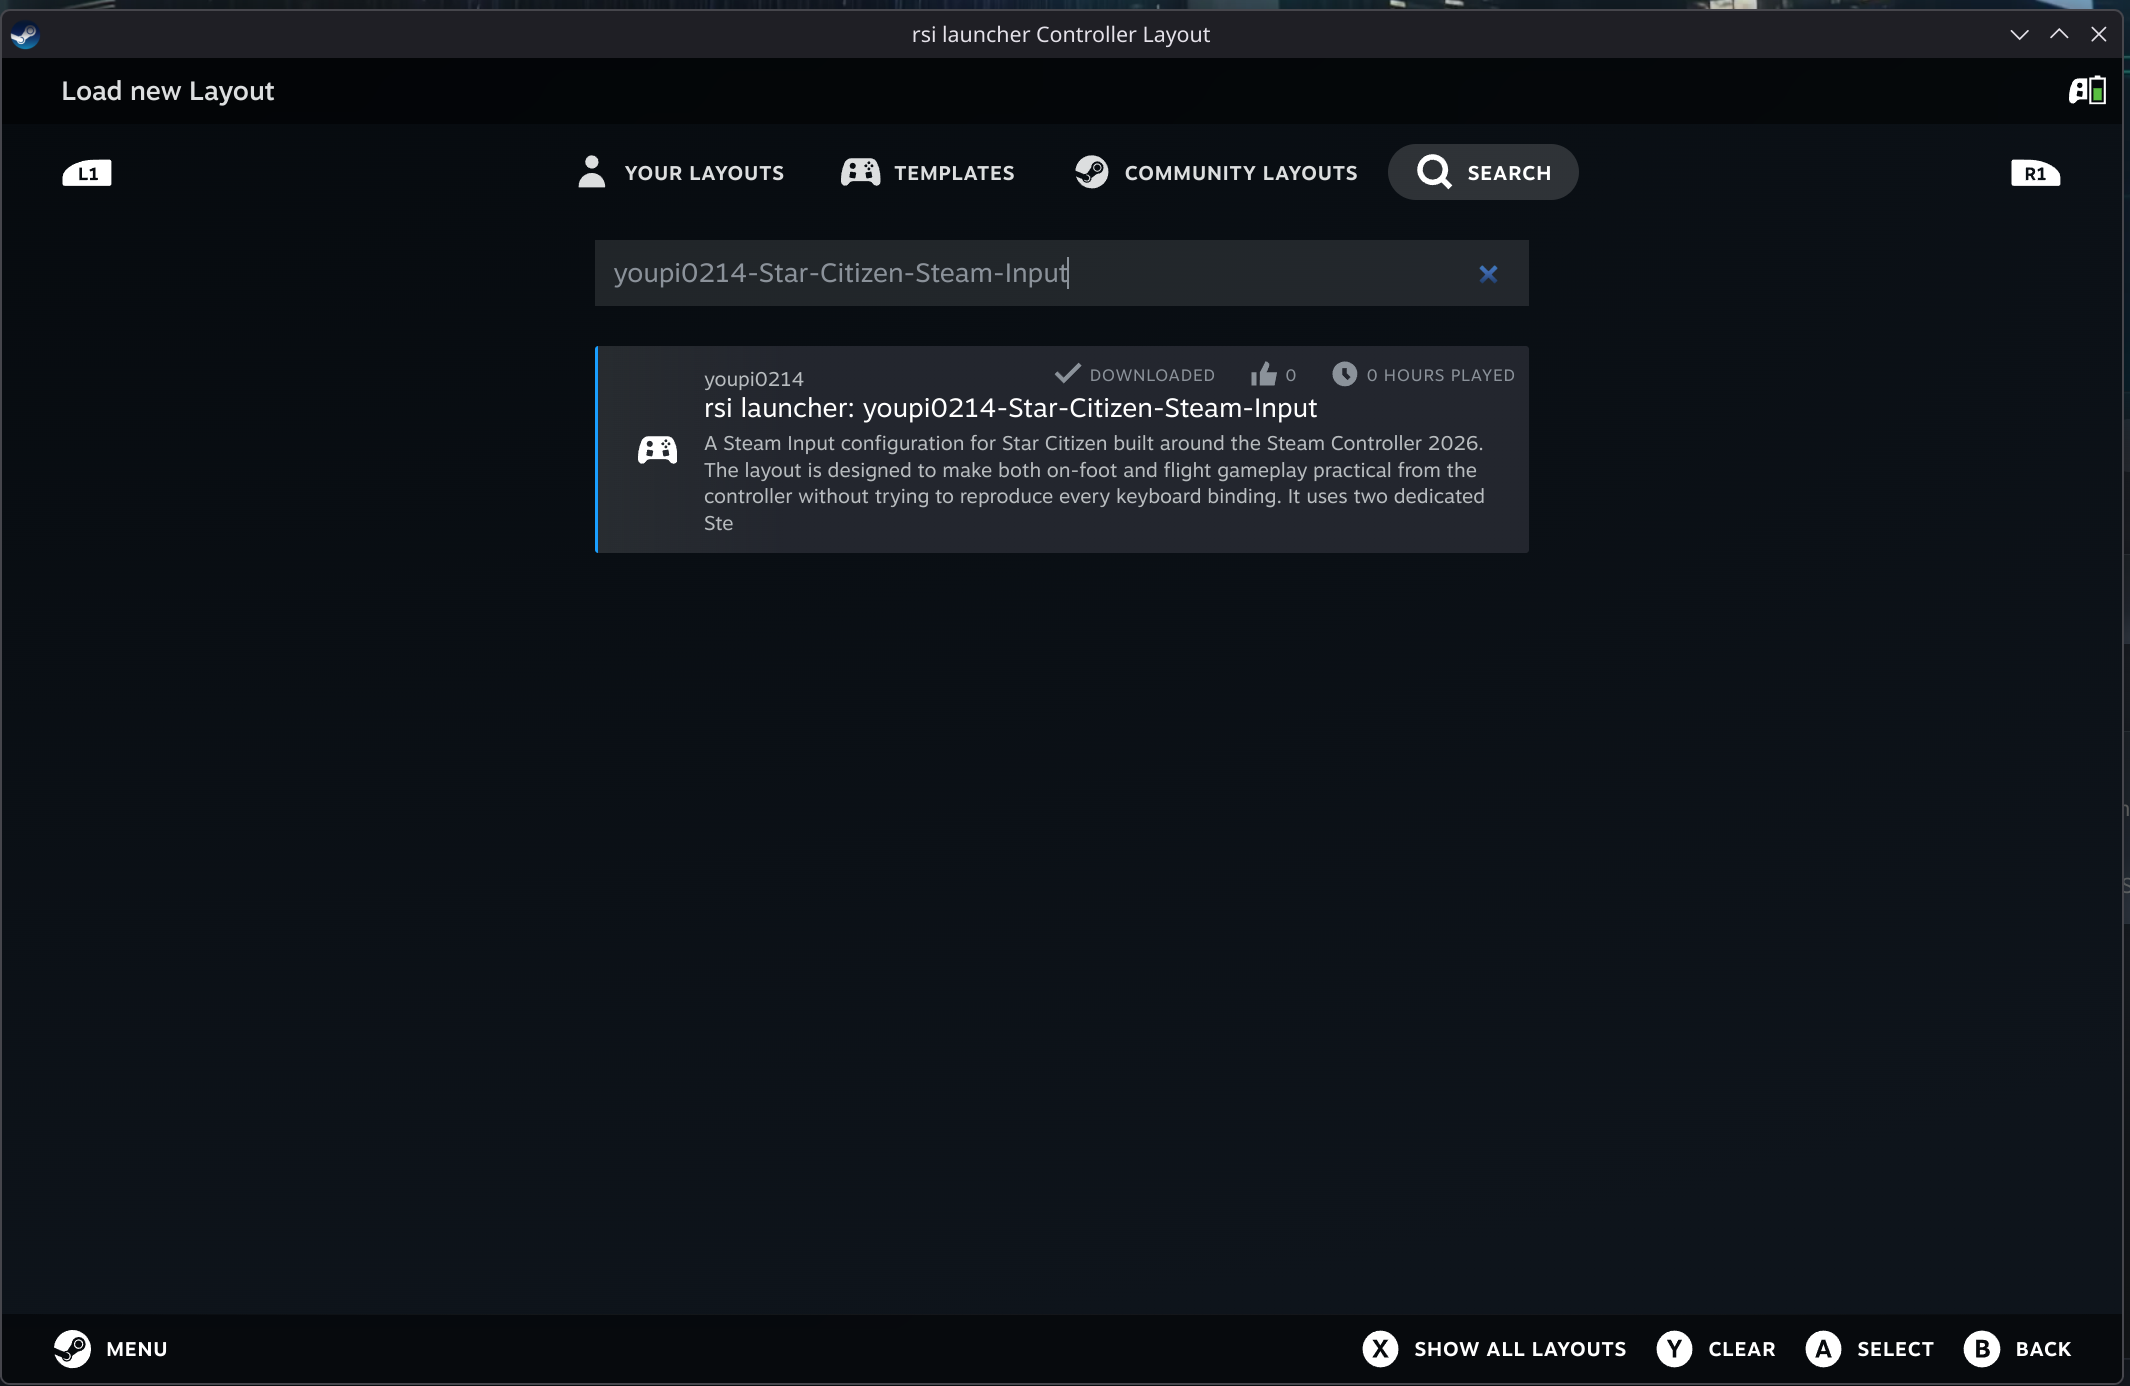
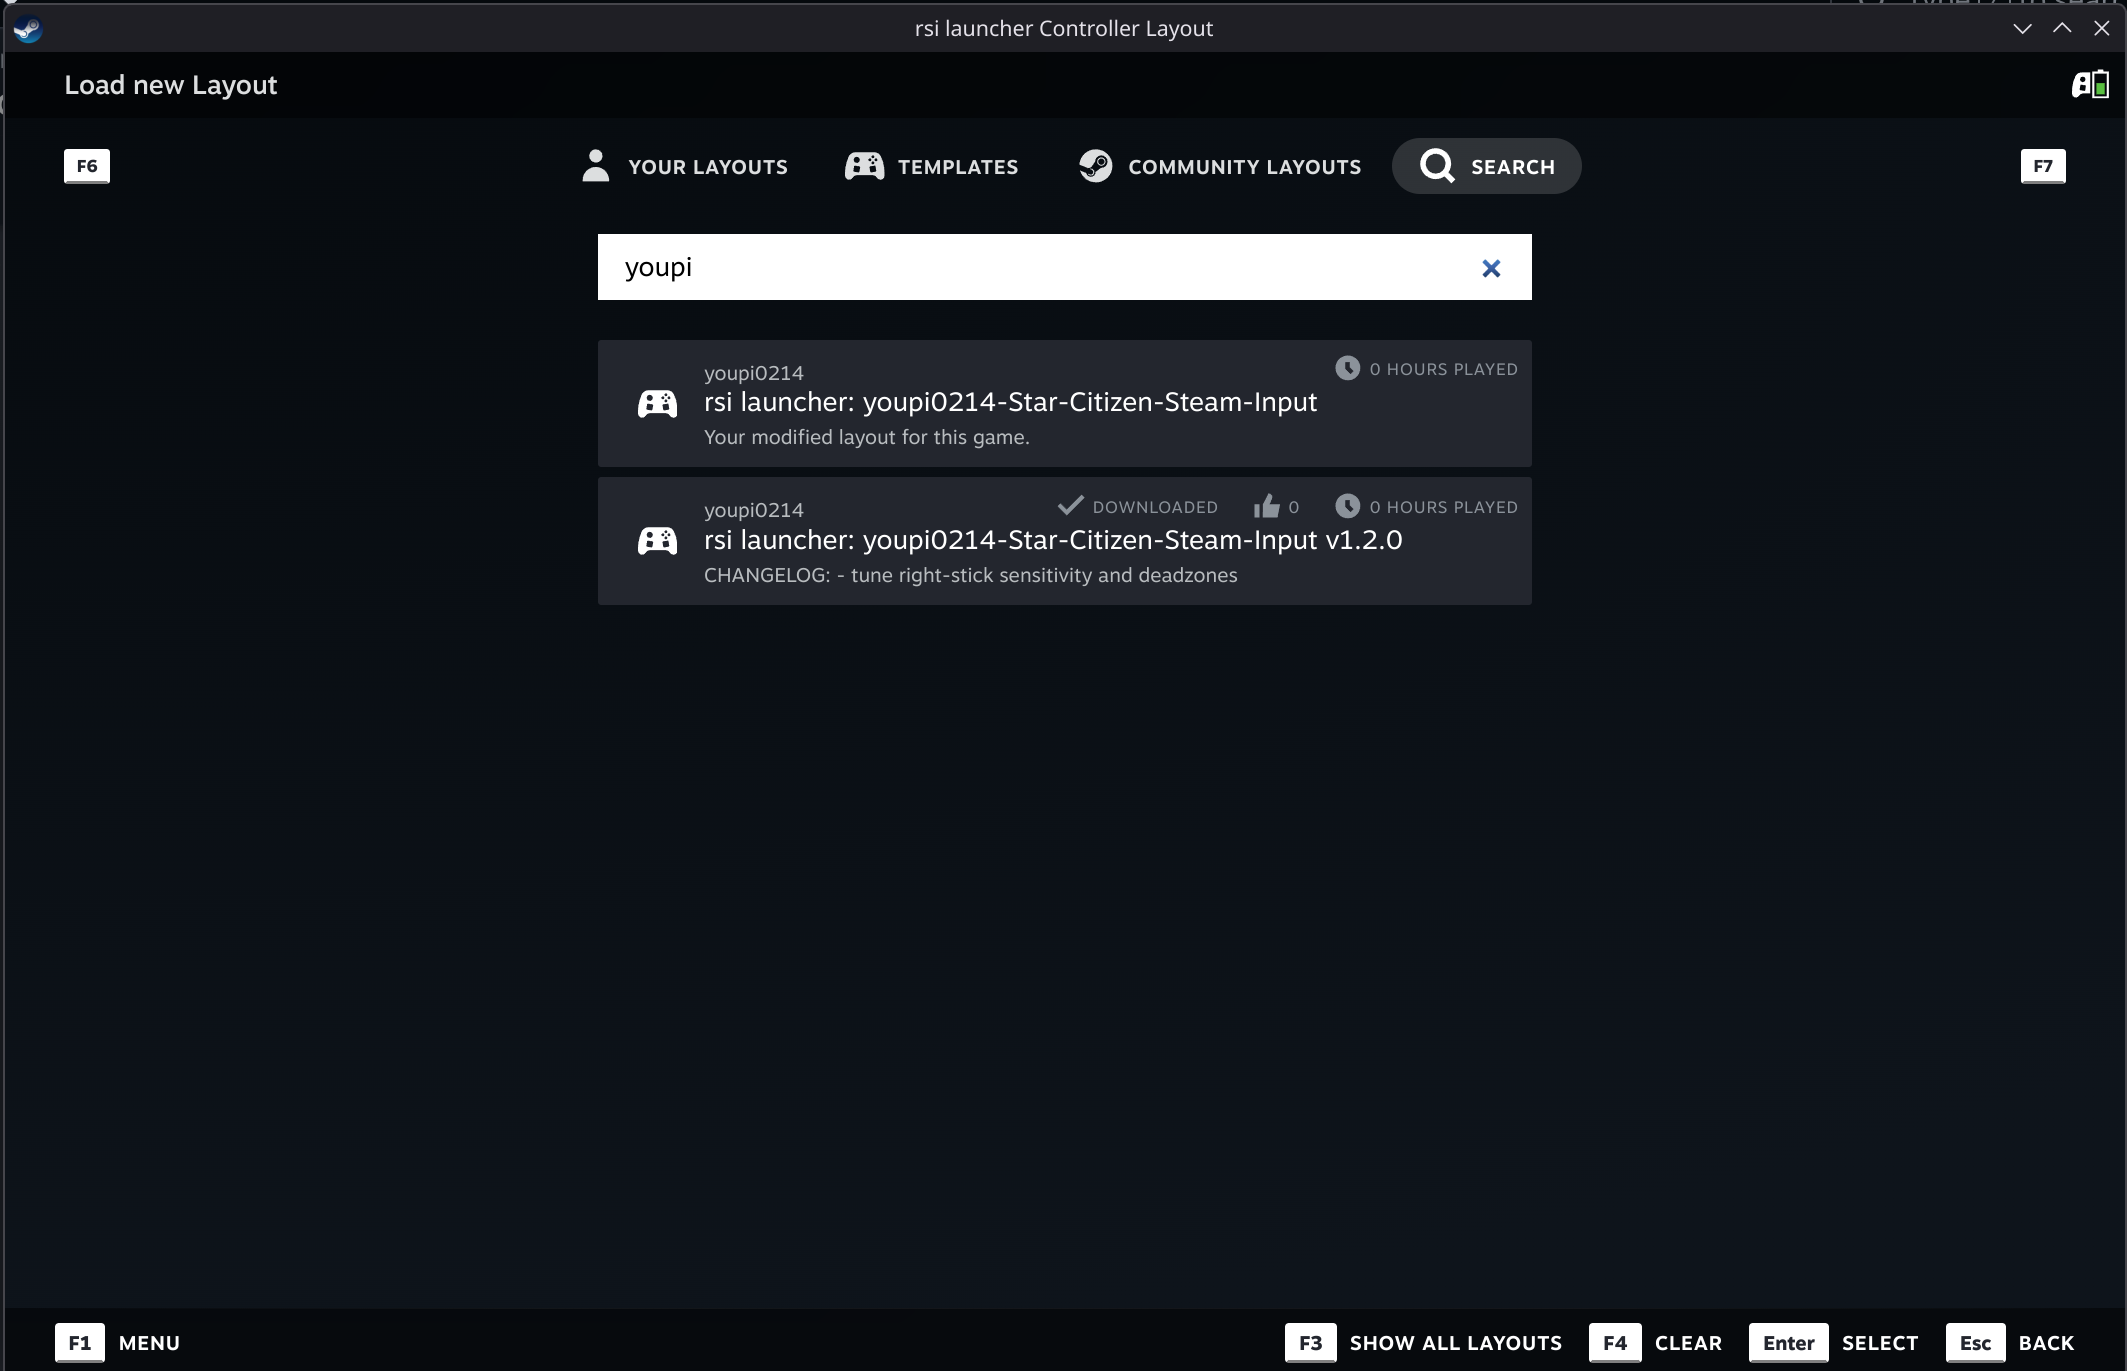
Clarify versioned community layouts and recommended installation
- Recommend Community Layouts in README and installation guide
- Explain version suffixes and how to select or switch layout versions
- Recommend choosing the latest release
- Update the community layout search screenshot and caption

Changed region(s): [[0.2793, 0.0919, 0.7447, 0.4595], [0.0, 0.0, 1.0, 1.0], [0.0, 0.9497, 0.0931, 1.0]]

diff --git a/docs/installation.md b/docs/installation.md
@@ -1,16 +1,23 @@
 # Install the Controller Layout
 
-First, [set up the RSI Launcher shortcut](setup.md). Then choose either installation method below.
+First, [set up the RSI Launcher shortcut](setup.md). I recommend installing through Community Layouts (Method A). Manual installation is available as an alternative.
 
-## Method A — Community Layouts
+## Method A — Community Layouts (Recommended)
 
 1. Connect your controller.
 2. Open **rsi launcher → Controller Layout** in Steam.
 3. Click the current layout's name, then open **Community Layouts**.
 4. Use the **Search** tab to search for **youpi0214-Star-Citizen-Steam-Input**.
-5. Select the layout and choose **Apply Layout**.
+5. Select the latest version of **youpi0214-Star-Citizen-Steam-Input** and choose **Apply Layout**.
+6. Repeat step 3 to 5 whenever you want to change the version (for a newer one for example)
 
-![Steam layout search showing youpi0214-Star-Citizen-Steam-Input in the results](images/find-profile-in-community-layouts.png)
+Community layout names now include a version suffix: `youpi0214-Star-Citizen-Steam-Input <version number>`. <br> For example `youpi0214-Star-Citizen-Steam-Input v1.3.0`. 
+
+Older layouts used the name without a version number. Compare the suffix with the [latest release](https://github.com/youpi0214/Star-Citizen-Steam-Input/releases/latest) when choosing a layout.
+
+![Steam layout search showing a versioned community layout named youpi0214-Star-Citizen-Steam-Input v1.2.0](images/find-profile-in-community-layouts.png)
+
+The screenshot shows `v1.2.0` as an example. Pick the version of your choise when installing (I recommend the latest).
 
 ## Method B — Manual installation
 

diff --git a/README.md b/README.md
@@ -23,7 +23,7 @@ FPS and Flight Mode layouts are implemented, including L4 modifier layers, gyro 
 ## Setup and installation
 
 1. [Set up RSI Launcher in Steam](docs/setup.md): add the non-Steam shortcut, name it `rsi launcher`, and configure Steam Input.
-2. [Install the controller layout](docs/installation.md): apply the community layout or download the VDF from the [latest release](https://github.com/youpi0214/Star-Citizen-Steam-Input/releases/latest).
+2. [Install the controller layout](docs/installation.md): use **Community Layouts (recommended)**, or manually install the VDF from the [latest release](https://github.com/youpi0214/Star-Citizen-Steam-Input/releases/latest).
 3. Configure the required in-game bindings below, then test the layout in Arena Commander or another safe environment.
 
 If Steam activates desktop controls while playing, see [Linux troubleshooting](docs/troubleshooting.md).
